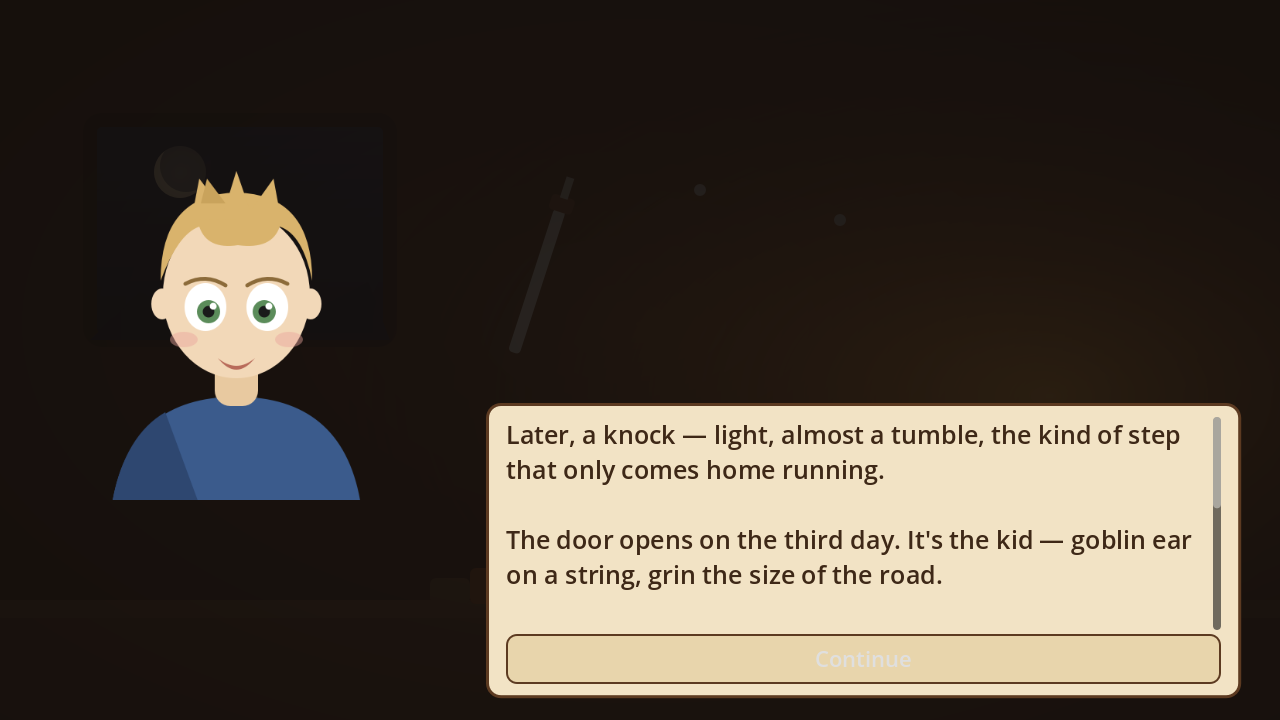
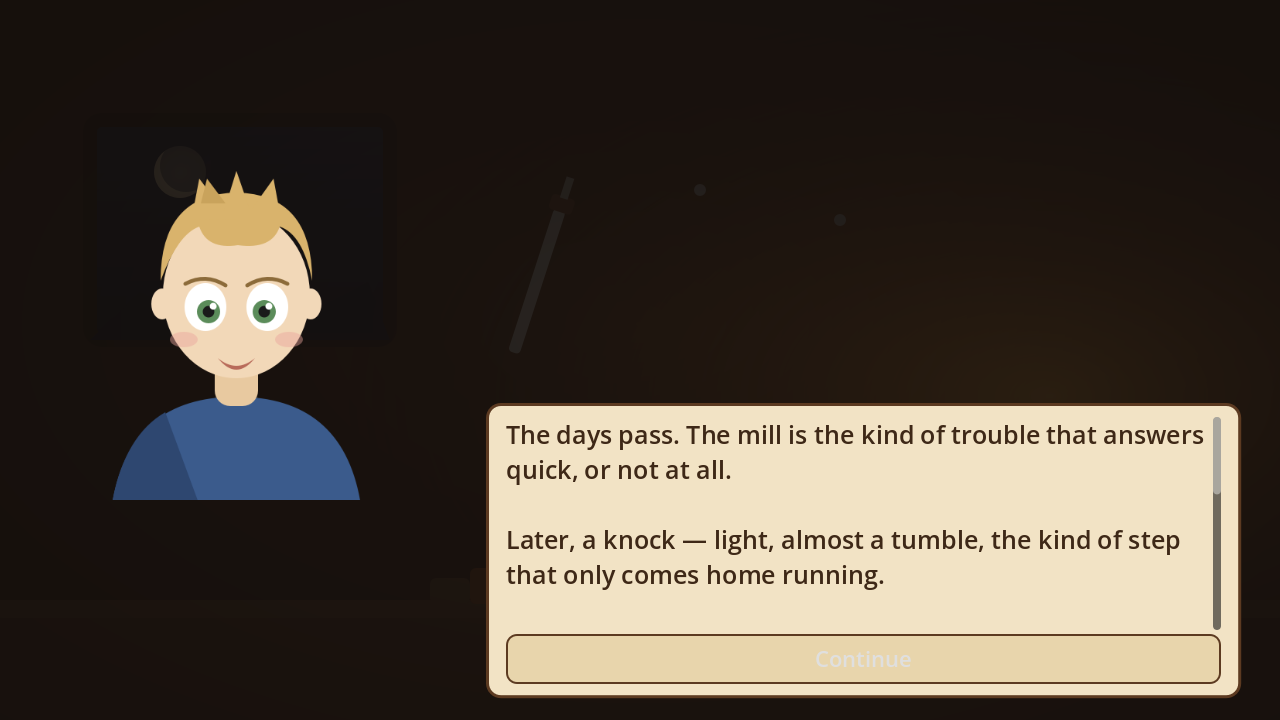
The return montage: returns arrive one at a time across the days (docs/06)
- Returns no longer pile up. Each is framed by a day-montage — 'the days
  pass' — so they land spread over time, and the pace is a tell the player
  learns: the mill answers fast or not at all, the deep road holds its
  silence, the tower keeps its own slow hours.
- Three-beat return: days, then the bell's step, then the face. Layered onto
  the existing bell system with one small return_days() function prepended in
  _queue_return; no new state.
- Regenerated the return shots, added a smoke assertion, updated README +
  DECISIONS.

Changed region(s): [[0.375, 0.5806, 0.9375, 0.6722], [0.375, 0.7333, 0.9375, 0.825], [0.9375, 0.6722, 0.9688, 0.7028]]

diff --git a/README.md b/README.md
@@ -53,7 +53,7 @@ Around all of it sits the weather and the quiet (docs/06): each night opens with
 
 And before the door, **the regulars** (docs/01, 07): the inn is a living museum of the playthrough. You can talk to the ones who remain — Garrick always, Fenwick always, Renn and Keld if you sent them, the woman in grey only if she didn't die — and each one reads back how they were treated, the quest they walked, the pour you chose. Absence speaks too.
 
-And every return is announced by **the doorbell** (docs/06): the game's one instrument of suspense. Light step, heavy step, measured step — and, when someone doesn't come back at all, a step that isn't theirs.
+And every return is announced by **the doorbell** (docs/06): the game's one instrument of suspense. Light step, heavy step, measured step — and, when someone doesn't come back at all, a step that isn't theirs. And returns arrive the way they should — one at a time, across a quiet montage of days, each on its own day; and how many days a quest takes to answer is itself a tell the player learns (the mill answers fast or not at all, the tower keeps its own slow hours).
 
 And what you pour can cost someone. Send **Renn** onto the deep road with **the Sweet** in him — the mead that makes a boy generous *and loud* — and the courier brings his borrowed sword back instead. The wall remembers the sword too big for a boy, and he is not among the regulars on the last night. Keld can be lost too, the opposite way: hand him the **Bitter** — the drink that says *you want me gone* — and he goes to the caravan alone, and a stranger brings back his axe and the coin he wore smooth.
 

diff --git a/DECISIONS.md b/DECISIONS.md
@@ -127,3 +127,8 @@ Considered:
 - **Keld's death is the mirror of Renn's.** Renn dies from being sent loud and reckless (the Sweet); Keld dies from being told he's not wanted (the Bitter, *"you want me gone"*). Two different deaths, two different pours, one rule: what you pour before you send is part of the story.
 - **The whole memory system closes around it.** `keld_dead` writes the window and the wall, empties his seat among the regulars, and shows up in the door mirror — and because Keld was the guard who *knew* the door, losing him changes what the door knows.
 - **He was the one who kept the door's secret; losing him makes the dark readier.** That's the weight of it — the choice to push Keld away isn't just sad, it's strategically frightening.
+
+## Prototype — the return montage (the "between guests" rhythm)
+
+- **docs/06: returns arrive one at a time, not in a pile.** Each return is now framed by a day-montage — *"the days pass"* — so they land spread over time, the way they should. The pace is itself a tell the player learns: the mill answers fast or not at all, the deep road holds its silence, the tower keeps its own slow hours.
+- **The montage frames the bell, the bell frames the face** — a three-beat return (days, step, then the one who comes back), which is exactly the doorbell rhythm the design describes. It layers onto the existing system with one small function (`return_days`) prepended in `_queue_return`; no new state.
